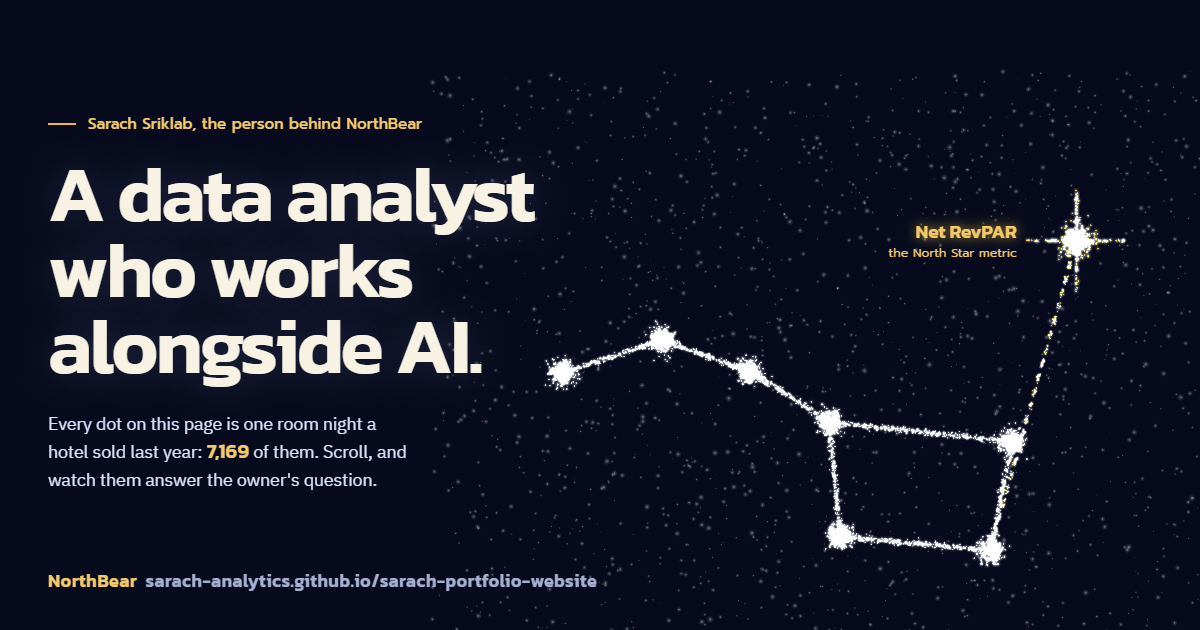
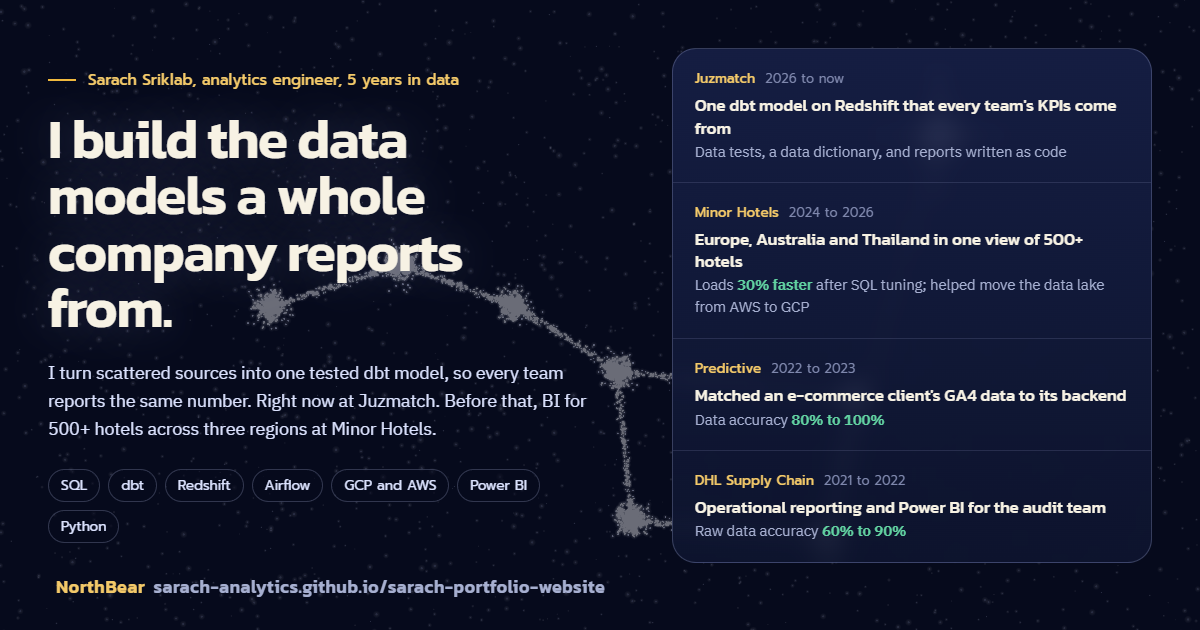
Lead the homepage with the work, for hiring managers
- New hero: an analytics-engineer claim, tools, and the four real jobs
  with their results; the dots dim behind it and brighten for the story
- Drop the separate number strip (the work list now carries it)
- Frame the hotel as a demo of how I work; Me/AI notes now show what I
  decided and caught, not just what AI typed
- Day-job work before Echo; contact splits hiring from projects
- New page title, description and share image

diff --git a/index.html b/index.html
@@ -3,19 +3,19 @@
 <head>
   <meta charset="utf-8">
   <meta name="viewport" content="width=device-width, initial-scale=1">
-  <title>Sarach Sriklab, data analyst who works alongside AI</title>
-  <meta name="title-en" content="Sarach Sriklab, data analyst who works alongside AI">
-  <meta name="title-th" content="สารัช ศรีกลับ Data Analyst ที่ทำงานคู่กับ AI">
-  <meta name="description" content="Watch a data analyst take one hotel owner's question to one decision, with real numbers and AI in the open. Portfolio, courses and consulting by Sarach Sriklab (NorthBear).">
-  <meta property="og:title" content="Sarach Sriklab, data analyst who works alongside AI">
-  <meta property="og:description" content="One question, one decision: a live data story, a Playground of things to try, and the NorthBear courses.">
+  <title>Sarach Sriklab, analytics engineer</title>
+  <meta name="title-en" content="Sarach Sriklab, analytics engineer">
+  <meta name="title-th" content="สารัช ศรีกลับ analytics engineer">
+  <meta name="description" content="Sarach Sriklab, analytics engineer with 5 years in data. I build the dbt models and reporting a whole company works from: Juzmatch, Minor Hotels (500+ hotels), Predictive, DHL Supply Chain.">
+  <meta property="og:title" content="Sarach Sriklab, analytics engineer">
+  <meta property="og:description" content="I build the data models a whole company reports from. 5 years in data: Juzmatch, Minor Hotels, Predictive, DHL Supply Chain.">
   <meta property="og:type" content="website">
   <meta property="og:site_name" content="Sarach Sriklab, NorthBear">
   <meta property="og:url" content="https://sarach-analytics.github.io/sarach-portfolio-website/">
   <meta property="og:image" content="https://sarach-analytics.github.io/sarach-portfolio-website/images/og.png">
   <meta property="og:image:width" content="1200">
   <meta property="og:image:height" content="630">
-  <meta property="og:image:alt" content="The Big Dipper drawn in 7,169 dots, one per hotel room night, pointing to a gold North Star labelled Net RevPAR.">
+  <meta property="og:image:alt" content="Sarach Sriklab, analytics engineer: I build the data models a whole company reports from. Work at Juzmatch, Minor Hotels, Predictive and DHL Supply Chain.">
   <meta name="twitter:card" content="summary_large_image">
   <link rel="canonical" href="https://sarach-analytics.github.io/sarach-portfolio-website/">
   <link rel="apple-touch-icon" href="images/apple-touch-icon.png">
@@ -34,36 +34,26 @@
 
 <main id="main">
 
-  <!-- ===== Hero: the field ===== -->
-  <section class="hero">
+  <!-- ===== Hero: who I am and the work behind it ===== -->
+  <section class="hero hero-hm">
     <div class="hero-stage" id="hero-stage"><div class="stage-labels" id="hero-labels"></div></div>
     <div class="wrap wide hero-grid">
       <div class="hero-copy hero-in">
-        <p class="kicker"><span class="en">Sarach Sriklab, the person behind NorthBear</span><span class="th">สารัช ศรีกลับ คนเบื้องหลัง NorthBear</span></p>
-        <h1><span class="en">A data analyst who works alongside AI.</span><span class="th">Data Analyst ที่ทำงานคู่กับ AI</span></h1>
-        <p class="lead"><span class="en">Every dot on this page is one room night a hotel sold last year: <b class="count" id="nights-count">7,169</b> of them. Scroll, and watch them answer the owner's question.</span><span class="th">ทุกจุดในหน้านี้คือห้องพัก 1 คืนที่โรงแรมขายได้เมื่อปีที่แล้ว รวม <b class="count" data-v="nights">7,169</b> จุด เลื่อนลงไปดูจุดเหล่านี้ตอบคำถามของเจ้าของโรงแรม</span></p>
+        <p class="kicker"><span class="en">Sarach Sriklab, analytics engineer, 5 years in data</span><span class="th">สารัช ศรีกลับ analytics engineer ทำงานด้านข้อมูลมา 5 ปี</span></p>
+        <h1><span class="en">I build the data models a whole company reports from.</span><span class="th">ผมสร้าง data model ที่ทั้งบริษัทใช้ทำรายงาน</span></h1>
+        <p class="lead"><span class="en">I turn scattered sources into one tested dbt model, so every team reports the same number. Right now at Juzmatch. Before that, BI for 500+ hotels across three regions at Minor Hotels.</span><span class="th">ผมรวมข้อมูลที่กระจายอยู่หลายที่ให้เป็น dbt model เดียวที่มีเทสต์ครบ ทุกทีมจึงรายงานตัวเลขเดียวกัน ตอนนี้ทำที่ Juzmatch ก่อนหน้านี้ทำ BI ให้โรงแรม 500+ แห่งใน 3 ภูมิภาคที่ Minor Hotels</span></p>
+        <ul class="stack" aria-label="Tools I use"><li>SQL</li><li>dbt</li><li>Redshift</li><li>Airflow</li><li>GCP and AWS</li><li>Power BI</li><li>Python</li></ul>
         <div class="btn-row">
-          <a class="btn" href="#story"><span class="en">Watch the story</span><span class="th">ดู data story</span><i data-i="arrow-down"></i></a>
-          <a class="btn ghost" href="playground.html"><span class="en">Try the Playground</span><span class="th">ไปลองเล่น</span></a>
+          <a class="btn" href="projects.html"><span class="en">See the work</span><span class="th">ดูผลงาน</span></a>
+          <a class="btn ghost" href="images/sarach-sriklab-resume.pdf"><i data-i="file"></i><span class="en">Download CV</span><span class="th">ดาวน์โหลด CV</span></a>
         </div>
-        <p class="hint"><i data-i="target"></i><span class="en">Point at any dot to see its night. Click the sky to stir it.</span><span class="th">ชี้ที่จุดไหนก็ได้เพื่อดูว่าเป็นคืนไหน คลิกที่ท้องฟ้าเพื่อให้จุดกระจาย</span></p>
       </div>
-    </div>
-  </section>
-
-  <!-- ===== Real results (the hotel is made up; these are not) ===== -->
-  <section class="proof" aria-labelledby="proof-title">
-    <div class="wrap wide">
-      <div class="proof-head">
-        <p id="proof-title"><span class="en">The hotel in the story below is made up. These results are real, from my day jobs.</span><span class="th">โรงแรมใน story ด้านล่างเป็นของสมมติ แต่ผลงานเหล่านี้เป็นของจริงจากงานประจำของผม</span></p>
-        <a class="text-link" href="projects.html"><span class="en">Read the stories</span><span class="th">อ่านเรื่องเต็ม</span></a>
-      </div>
-      <div class="proof-grid">
-        <div><b>500+</b><span><span class="en">hotels in one performance view, across three regions</span><span class="th">โรงแรมในรายงานผลประกอบการชุดเดียว ครอบคลุม 3 ภูมิภาค</span></span><small>Minor Hotels</small></div>
-        <div><b>30%</b><span><span class="en">faster dashboard loads after SQL tuning</span><span class="th">dashboard โหลดเร็วขึ้นหลังปรับ SQL</span></span><small>Minor Hotels</small></div>
-        <div><b>100%</b><span><span class="en">data accuracy for an e-commerce client, up from 80%</span><span class="th">ความถูกต้องของข้อมูลลูกค้า e-commerce จากเดิม 80%</span></span><small>Predictive</small></div>
-        <div><b>90%</b><span><span class="en">raw data accuracy, up from 60%</span><span class="th">ความถูกต้องของข้อมูลดิบ จากเดิม 60%</span></span><small>DHL Supply Chain</small></div>
-      </div>
+      <ol class="ledger hero-in" aria-label="Work history">
+        <li><span class="co">Juzmatch <small><span class="en">2026 to now</span><span class="th">2026 ถึงปัจจุบัน</span></small></span><b><span class="en">One dbt model on Redshift that every team's KPIs come from</span><span class="th">dbt model เดียวบน Redshift ที่ KPI ของทุกทีมมาจากที่นี่</span></b><span class="res"><span class="en">Data tests, a data dictionary, and reports written as code</span><span class="th">มี data test, data dictionary และรายงานที่เขียนเป็นโค้ด</span></span></li>
+        <li><span class="co">Minor Hotels <small>2024 <span class="en">to</span><span class="th">ถึง</span> 2026</small></span><b><span class="en">Europe, Australia and Thailand in one view of 500+ hotels</span><span class="th">ยุโรป ออสเตรเลีย และไทย รวมในรายงานเดียวของโรงแรม 500+ แห่ง</span></b><span class="res"><span class="en">Loads <em>30% faster</em> after SQL tuning; helped move the data lake from AWS to GCP</span><span class="th">โหลดเร็วขึ้น <em>30%</em> หลังปรับ SQL และช่วยย้าย data lake จาก AWS ไป GCP</span></span></li>
+        <li><span class="co">Predictive <small>2022 <span class="en">to</span><span class="th">ถึง</span> 2023</small></span><b><span class="en">Matched an e-commerce client's GA4 data to its backend</span><span class="th">จับคู่ข้อมูล GA4 ของลูกค้า e-commerce กับระบบหลังบ้าน</span></b><span class="res"><span class="en">Data accuracy <em>80% to 100%</em></span><span class="th">ความถูกต้องของข้อมูล <em>80% เป็น 100%</em></span></span></li>
+        <li><span class="co">DHL Supply Chain <small>2021 <span class="en">to</span><span class="th">ถึง</span> 2022</small></span><b><span class="en">Operational reporting and Power BI for the audit team</span><span class="th">ระบบรายงานงานปฏิบัติการ และ Power BI ให้ทีม audit</span></b><span class="res"><span class="en">Raw data accuracy <em>60% to 90%</em></span><span class="th">ความถูกต้องของข้อมูลดิบ <em>60% เป็น 90%</em></span></span></li>
+      </ol>
     </div>
   </section>
 
@@ -71,12 +61,12 @@
   <section id="story" class="story-sec">
     <div class="wrap wide">
       <header class="sec-head">
-        <h2><span class="en">One question, one decision.</span><span class="th">คำถามเดียว การตัดสินใจเดียว</span></h2>
+        <h2><span class="en">How I work, shown on a demo hotel.</span><span class="th">วิธีทำงานของผม ผ่านโรงแรมตัวอย่าง</span></h2>
         <div>
-          <p class="lead"><span class="en">Phra Nang House is a 30-room hotel in Krabi. The hotel and its data are made up, but built to behave like a real one: high season, weekends, five booking channels. It is the dataset students use in the NorthBear courses.</span><span class="th">Phra Nang House เป็นโรงแรม 30 ห้องที่กระบี่ ตัวโรงแรมและข้อมูลเป็นของสมมติ แต่สร้างให้เหมือนโรงแรมจริง มีไฮซีซั่น วันหยุด และช่องทางจอง 5 ช่องทาง เป็นชุดข้อมูลเดียวกับที่นักเรียนใช้ในคอร์สของ NorthBear</span></p>
+          <p class="lead"><span class="en">One owner's question, taken all the way to one decision. Phra Nang House is a 30-room hotel in Krabi. The hotel and its data are made up, but built to behave like a real one: high season, weekends, five booking channels. It is the dataset my NorthBear courses use.</span><span class="th">พาคำถามเดียวของเจ้าของโรงแรมไปจนถึงการตัดสินใจเดียว Phra Nang House เป็นโรงแรม 30 ห้องที่กระบี่ ตัวโรงแรมและข้อมูลเป็นของสมมติ แต่สร้างให้เหมือนโรงแรมจริง มีไฮซีซั่น วันหยุด และช่องทางจอง 5 ช่องทาง เป็นชุดข้อมูลเดียวกับที่นักเรียนใช้ในคอร์สของ NorthBear</span></p>
           <div class="hero-meta">
-            <span class="who me"><span class="en">what I did</span><span class="th">ส่วนที่ผมทำ</span></span>
-            <span class="who ai"><span class="en">what AI did</span><span class="th">ส่วนที่ AI ทำ</span></span>
+            <span class="who me"><span class="en">my call</span><span class="th">ส่วนที่ผมตัดสิน</span></span>
+            <span class="who ai"><span class="en">what AI drafted</span><span class="th">ส่วนที่ AI ร่าง</span></span>
           </div>
         </div>
       </header>
@@ -92,7 +82,7 @@
               <p><span class="en">My first job is to turn that into something we can measure. Here is the raw material: every room night sold in the last 12 months.</span><span class="th">งานแรกของผมคือเปลี่ยนคำถามนี้ให้เป็นสิ่งที่วัดได้ และนี่คือวัตถุดิบ: ห้องพักทุกคืนที่ขายได้ใน 12 เดือนล่าสุด</span></p>
               <div class="split">
                 <div><span class="who me"><span class="en">Me</span><span class="th">ผม</span></span><span class="en">Picked the metric: room revenue after booking commission. Revenue alone hides what it cost to win the guest.</span><span class="th">เลือก metric คือรายได้ห้องหลังหักค่าคอมมิชชัน เพราะรายได้อย่างเดียวซ่อนต้นทุนการได้ลูกค้ามา</span></div>
-                <div class="ai-side"><span class="who ai">AI</span><span class="en">Listed eight candidate metrics in seconds, so I could cross off the wrong ones.</span><span class="th">ลิสต์ metric ที่เป็นไปได้ 8 ตัวในไม่กี่วินาที ให้ผมตัดตัวที่ไม่ใช่ออก</span></div>
+                <div class="ai-side"><span class="who ai">AI</span><span class="en">Listed eight candidate metrics. Most measured volume, not what is left over, so I cut them.</span><span class="th">ลิสต์ metric มา 8 ตัว ส่วนใหญ่วัดปริมาณ ไม่ได้วัดเงินที่เหลือ ผมเลยตัดออก</span></div>
               </div>
             </div>
           </article>
@@ -108,8 +98,8 @@
                 <li><i data-i="check"></i><span class="en">No night is counted twice</span><span class="th">ไม่มีคืนไหนถูกนับซ้ำ</span></li>
               </ul>
               <div class="split">
-                <div><span class="who me"><span class="en">Me</span><span class="th">ผม</span></span><span class="en">Wrote the rules for "clean", then checked every total against the nightly report.</span><span class="th">กำหนดว่า "สะอาด" คืออะไร แล้วเช็กยอดรวมทุกตัวกับรายงานรายคืน</span></div>
-                <div class="ai-side"><span class="who ai">AI</span><span class="en">Drafted the SQL to fix dates, types and names, and flagged the duplicate night.</span><span class="th">ร่าง SQL แก้วันที่ ชนิดข้อมูล และชื่อ แล้วชี้แถวที่ซ้ำ</span></div>
+                <div><span class="who me"><span class="en">Me</span><span class="th">ผม</span></span><span class="en">Wrote the rules for "clean" as tests, then checked every total against the nightly report.</span><span class="th">เขียนกฎว่า "สะอาด" คืออะไรเป็นเทสต์ แล้วเช็กยอดรวมทุกตัวกับรายงานรายคืน</span></div>
+                <div class="ai-side"><span class="who ai">AI</span><span class="en">Drafted the clean-up SQL. It removed duplicates by booking ID and missed a night split across two IDs. My test caught it.</span><span class="th">ร่าง SQL ล้างข้อมูล แต่ตัดแถวซ้ำด้วย booking ID เลยพลาดคืนที่ถูกแยกเป็น 2 ID เทสต์ของผมจับได้</span></div>
               </div>
             </div>
           </article>
@@ -121,8 +111,8 @@
               <p><span class="en">I model the nights as one table of facts, with date, channel, guest market and room type around it. Slicing by channel takes one line, and it is where this story turns.</span><span class="th">ผมออกแบบข้อมูลรายคืนเป็น fact table เดียว มีวันที่ ช่องทาง ตลาดลูกค้า และประเภทห้องอยู่รอบ ๆ หั่นตามช่องทางใช้แค่บรรทัดเดียว และเรื่องนี้เริ่มพลิกตรงนี้</span></p>
               <div class="schema"><span class="fact">fct_nightly</span><span>dim_date</span><span>dim_channel</span><span>dim_market</span><span>dim_room_type</span></div>
               <div class="split">
-                <div><span class="who me"><span class="en">Me</span><span class="th">ผม</span></span><span class="en">Chose the grain (one row per night per channel) and how the tables join.</span><span class="th">เลือกระดับข้อมูล (1 แถวต่อคืนต่อช่องทาง) และวิธี join</span></div>
-                <div class="ai-side"><span class="who ai">AI</span><span class="en">Wrote the dbt model and tests from my spec. I reviewed every line.</span><span class="th">เขียน dbt model และเทสต์จากสเปกของผม ผมรีวิวทุกบรรทัด</span></div>
+                <div><span class="who me"><span class="en">Me</span><span class="th">ผม</span></span><span class="en">Chose the grain (one row per night per channel) and how the tables join. That choice is why the channel question takes one line.</span><span class="th">เลือกระดับข้อมูล (1 แถวต่อคืนต่อช่องทาง) และวิธี join การเลือกนี้ทำให้คำถามเรื่องช่องทางใช้แค่บรรทัดเดียว</span></div>
+                <div class="ai-side"><span class="who ai">AI</span><span class="en">Typed the dbt model and tests from my spec. In review I rejected a join that would have counted revenue twice.</span><span class="th">เขียน dbt model และเทสต์ตามสเปกของผม ตอนรีวิวผมตีกลับ join ที่จะทำให้รายได้ถูกนับซ้ำ</span></div>
               </div>
             </div>
           </article>
@@ -137,7 +127,7 @@
               <div class="table-wrap" id="trend-table"></div>
               <div class="split">
                 <div><span class="who me"><span class="en">Me</span><span class="th">ผม</span></span><span class="en">Decided what to compare (same months last year) and what to leave out.</span><span class="th">ตัดสินใจว่าจะเทียบอะไร (เดือนเดียวกันปีก่อน) และอะไรไม่ต้องใส่</span></div>
-                <div class="ai-side"><span class="who ai">AI</span><span class="en">Drafted the chart and a first summary. I rewrote the headline.</span><span class="th">ร่างกราฟและสรุปรอบแรก ผมเขียนหัวข้อใหม่</span></div>
+                <div class="ai-side"><span class="who ai">AI</span><span class="en">Drafted the chart and a summary that called the year a success. I rewrote it: true, but not the whole story.</span><span class="th">ร่างกราฟและสรุปที่บอกว่าปีนี้สำเร็จ ผมเขียนใหม่ เพราะจริงแต่ยังไม่ครบ</span></div>
               </div>
             </div>
           </article>
@@ -223,24 +213,9 @@ order by commission desc;</code></pre>
     <div class="wrap">
       <div class="section-head">
         <h2><span class="en">Selected work</span><span class="th">ผลงานที่เลือกมา</span></h2>
-        <p class="lead"><span class="en">Day-job work is told as a story with no company data. Personal and NorthBear work you can open and try.</span><span class="th">งานประจำเล่าเป็นเรื่องโดยไม่มีข้อมูลบริษัท ส่วนงานส่วนตัวและงานของ NorthBear เปิดดูและลองใช้ได้</span></p>
+        <p class="lead"><span class="en">Day-job work first, told with no company data. Then Echo, which I built for my own brand and you can try.</span><span class="th">งานประจำมาก่อน เล่าโดยไม่มีข้อมูลบริษัท ตามด้วย Echo ที่ผมสร้างให้แบรนด์ตัวเองและลองใช้ได้เลย</span></p>
       </div>
       <div class="rows">
-        <div class="row flag">
-          <div class="row-kind"><b><span class="en">NorthBear work</span><span class="th">งาน NorthBear</span></b><span class="en">Flagship</span><span class="th">ผลงานหลัก</span></div>
-          <div>
-            <h3><span class="en">Echo, an AI data agent for your spreadsheet</span><span class="th">Echo ผู้ช่วย AI สำหรับ spreadsheet ของคุณ</span></h3>
-            <p><span class="en">A morning recap with a written brief, plus a chat that answers the next five questions and shows the SQL and source rows behind every answer.</span><span class="th">สรุปผลเป็นข้อความทุกเช้า และแชตที่ตอบคำถามต่อได้อีก 5 ข้อ โดยแสดง SQL และแถวข้อมูลต้นทางของทุกคำตอบ</span></p>
-            <div class="split">
-              <div><span class="who me"><span class="en">Me</span><span class="th">ผม</span></span><span class="en">The metrics, the questions, the recap design, and the rule: cite the source or say "I don't know".</span><span class="th">metric คำถาม การออกแบบสรุป และกฎ "อ้างแหล่งที่มา หรือบอกว่าไม่รู้"</span></div>
-              <div class="ai-side"><span class="who ai">AI</span><span class="en">Reads the sheet, explains what moved, writes the brief, answers follow-ups.</span><span class="th">อ่านชีต อธิบายว่าอะไรขยับ เขียนสรุป และตอบคำถามต่อ</span></div>
-            </div>
-          </div>
-          <div class="row-links">
-            <a class="btn small" href="playground.html#echo"><span class="en">Ask Echo</span><span class="th">ลองถาม Echo</span></a>
-            <a class="text-link" href="courses.html#blueprint"><span class="en">Build your own</span><span class="th">สร้างของคุณเอง</span></a>
-          </div>
-        </div>
         <div class="row">
           <div class="row-kind"><b><span class="en">Day-job work</span><span class="th">งานประจำ</span></b>Juzmatch, 2026</div>
           <div>
@@ -256,6 +231,21 @@ order by commission desc;</code></pre>
             <p><span class="en">Europe, Australia and Thailand in one performance view, with a watchlist for hotels that need attention and 30% faster loads.</span><span class="th">รวมยุโรป ออสเตรเลีย และไทยไว้ในมุมมองเดียว มี watchlist สำหรับโรงแรมที่ต้องดูแล และโหลดเร็วขึ้น 30%</span></p>
           </div>
           <div class="row-links"><a class="text-link" href="projects.html"><span class="en">Read the story</span><span class="th">อ่านเรื่องนี้</span></a></div>
+        </div>
+        <div class="row flag">
+          <div class="row-kind"><b><span class="en">NorthBear work</span><span class="th">งาน NorthBear</span></b><span class="en">Flagship</span><span class="th">ผลงานหลัก</span></div>
+          <div>
+            <h3><span class="en">Echo, an AI data agent for your spreadsheet</span><span class="th">Echo ผู้ช่วย AI สำหรับ spreadsheet ของคุณ</span></h3>
+            <p><span class="en">A morning recap with a written brief, plus a chat that answers the next five questions and shows the SQL and source rows behind every answer.</span><span class="th">สรุปผลเป็นข้อความทุกเช้า และแชตที่ตอบคำถามต่อได้อีก 5 ข้อ โดยแสดง SQL และแถวข้อมูลต้นทางของทุกคำตอบ</span></p>
+            <div class="split">
+              <div><span class="who me"><span class="en">Me</span><span class="th">ผม</span></span><span class="en">The metrics, the questions, the recap design, and the rule: cite the source or say "I don't know".</span><span class="th">metric คำถาม การออกแบบสรุป และกฎ "อ้างแหล่งที่มา หรือบอกว่าไม่รู้"</span></div>
+              <div class="ai-side"><span class="who ai">AI</span><span class="en">Reads the sheet, explains what moved, writes the brief, answers follow-ups.</span><span class="th">อ่านชีต อธิบายว่าอะไรขยับ เขียนสรุป และตอบคำถามต่อ</span></div>
+            </div>
+          </div>
+          <div class="row-links">
+            <a class="btn small" href="playground.html#echo"><span class="en">Ask Echo</span><span class="th">ลองถาม Echo</span></a>
+            <a class="text-link" href="courses.html#blueprint"><span class="en">Build your own</span><span class="th">สร้างของคุณเอง</span></a>
+          </div>
         </div>
       </div>
       <div class="btn-row"><a class="btn ghost" href="projects.html"><span class="en">See all work</span><span class="th">ดูผลงานทั้งหมด</span></a></div>
@@ -323,8 +313,12 @@ order by commission desc;</code></pre>
     <div class="wrap">
       <div class="panel two">
         <div>
-          <h2><span class="en">Tell me what question your data should answer.</span><span class="th">บอกผมว่าข้อมูลของคุณควรตอบคำถามอะไร</span></h2>
-          <p class="lead" style="margin-top:14px"><span class="en">Dashboards, a data health check, an AI agent like Echo, or a workshop for your team. I reply within two working days.</span><span class="th">จะเป็น dashboard, ตรวจสุขภาพข้อมูล, AI agent แบบ Echo หรือเวิร์กช็อปให้ทีมก็ได้ ผมตอบกลับภายใน 2 วันทำการ</span></p>
+          <h2><span class="en">Hiring, or have a project?</span><span class="th">กำลังหาคน <span style="white-space:nowrap">หรือมีโปรเจกต์?</span></span></h2>
+          <div class="two-ways">
+            <div><h3 class="h4"><span class="en">Hiring for analytics engineering</span><span class="th">หาคนทำ analytics engineering</span></h3><p><span class="en">My CV has the full history. Message me on LinkedIn or by email.</span><span class="th">ประวัติเต็มอยู่ใน CV ทักมาทาง LinkedIn หรืออีเมลได้เลย</span></p></div>
+            <div><h3 class="h4"><span class="en">A project for your business</span><span class="th">โปรเจกต์ให้ธุรกิจของคุณ</span></h3><p><span class="en">A dashboard, a data health check, an AI agent like Echo, or a workshop. Use the form.</span><span class="th">dashboard, ตรวจสุขภาพข้อมูล, AI agent แบบ Echo หรือเวิร์กช็อป กรอกฟอร์มได้เลย</span></p></div>
+          </div>
+          <p class="small muted" style="margin-top:18px"><span class="en">I reply within two working days.</span><span class="th">ผมตอบกลับภายใน 2 วันทำการ</span></p>
           <div class="contact-lines">
             <a href="mailto:sarach.northbear+consulting@gmail.com"><i data-i="mail"></i>sarach.northbear+consulting@gmail.com</a>
             <a href="https://www.linkedin.com/in/sarach-sriklab-b1669715a/" target="_blank" rel="noopener"><i data-i="linkedin"></i>LinkedIn</a>
@@ -340,6 +334,7 @@ order by commission desc;</code></pre>
             <div class="field"><label for="c-type"><span class="en">What you need</span><span class="th">ต้องการอะไร</span></label>
               <select id="c-type" name="ProjectType" required>
                 <option value="" data-en="Choose one" data-th="เลือก 1 อย่าง">Choose one</option>
+                <option value="Job opportunity" data-en="A job opportunity" data-th="ชวนร่วมงาน">A job opportunity</option>
                 <option value="Done-for-you Echo" data-en="AI data agent (like Echo)" data-th="AI data agent (แบบ Echo)">AI data agent (like Echo)</option>
                 <option value="Dashboard Development" data-en="A dashboard" data-th="Dashboard">A dashboard</option>
                 <option value="Data health check" data-en="A data health check" data-th="ตรวจสุขภาพข้อมูล">A data health check</option>
@@ -354,7 +349,7 @@ order by commission desc;</code></pre>
                 <option value="Exploring" data-en="Just exploring" data-th="แค่ดูไว้ก่อน">Just exploring</option>
               </select></div>
           </div>
-          <div class="field"><label for="c-msg"><span class="en">The question your data should answer</span><span class="th">คำถามที่ข้อมูลของคุณควรตอบ</span></label><textarea id="c-msg" name="Message" rows="5" required maxlength="1000" data-ph-en="For example: which of our branches is losing money, and why?" data-ph-th="เช่น สาขาไหนขาดทุน และเพราะอะไร"></textarea></div>
+          <div class="field"><label for="c-msg"><span class="en">The role, or the question your data should answer</span><span class="th">ตำแหน่งงาน หรือคำถามที่ข้อมูลของคุณควรตอบ</span></label><textarea id="c-msg" name="Message" rows="5" required maxlength="1000" data-ph-en="For example: which of our branches is losing money, and why?" data-ph-th="เช่น สาขาไหนขาดทุน และเพราะอะไร"></textarea></div>
           <div><button class="btn" type="submit"><span class="en">Send message</span><span class="th">ส่งข้อความ</span><i data-i="send"></i></button></div>
           <p class="form-msg" aria-live="polite"></p>
         </form>

diff --git a/assets/nb/nb.css b/assets/nb/nb.css
@@ -737,3 +737,34 @@ html.th .whole-job h2 { max-width: 20ch; }
 
 /* headings re-levelled for screen readers keep the look of their old level */
 .article h2.h4 { font-size: 1.0625rem; line-height: 1.35; letter-spacing: 0; margin: 0 0 8px; }
+
+/* ===== Home hero for hiring managers: claim on the left, the work behind it on the right ===== */
+.hero-hm { min-height: 0; padding: clamp(40px, 7vh, 88px) 0 clamp(56px, 9vh, 104px); }
+.hero-hm .hero-stage { width: 100%; }
+.hero-hm #hero-labels { display: none; }
+.hero-hm .hero-grid { display: grid; grid-template-columns: minmax(0, 1.08fr) minmax(0, .92fr); gap: clamp(32px, 5vw, 72px); align-items: center; }
+.hero-hm .hero-copy { max-width: 640px; }
+.hero-hm h1 { max-width: 15ch; font-size: clamp(2.6rem, 4.6vw, 4.4rem); line-height: 1.02; letter-spacing: -.025em; }
+html.th .hero-hm h1 { max-width: 14ch; font-size: clamp(2.4rem, 4.2vw, 4rem); line-height: 1.2; }
+.hero-hm .lead { max-width: 52ch; margin-top: 24px; }
+.stack { list-style: none; display: flex; flex-wrap: wrap; gap: 8px; margin-top: 24px; }
+.stack li { font-family: var(--f-ui); font-size: .85rem; color: var(--navy); border: 1px solid var(--rule-strong); border-radius: 999px; padding: 4px 12px; background: rgba(6, 10, 28, .6); }
+.hero-hm .btn-row { margin-top: 28px; }
+.ledger { list-style: none; pointer-events: auto; border: 1px solid var(--rule-strong); border-radius: var(--r-lg); background: linear-gradient(180deg, rgba(24, 33, 74, .82), rgba(14, 21, 48, .86)); backdrop-filter: blur(10px); -webkit-backdrop-filter: blur(10px); }
+.ledger li { display: grid; gap: 4px; padding: 18px 22px; }
+.ledger li + li { border-top: 1px solid var(--rule); }
+.ledger .co { font-family: var(--f-ui); font-size: .85rem; font-weight: 500; color: var(--gold-ink); display: flex; gap: 10px; align-items: baseline; flex-wrap: wrap; }
+.ledger .co small { color: var(--faint); font-weight: 400; font-size: .8rem; }
+.ledger b { font-family: var(--f-head); font-weight: 500; color: var(--navy-deep); font-size: 1.06rem; line-height: 1.32; }
+.ledger .res { color: var(--muted); font-size: .92rem; line-height: 1.45; }
+.ledger em { font-style: normal; color: var(--good); font-weight: 600; }
+@media (max-width: 940px) {
+  .hero-hm { padding: 28px 0 48px; }
+  .hero-hm .hero-grid { grid-template-columns: 1fr; gap: 32px; }
+  .hero-hm .hero-stage { order: 2; height: 34vh; min-height: 220px; margin-top: 8px; }
+  .ledger li { padding: 16px 18px; }
+}
+.two-ways { display: grid; gap: 18px; margin-top: 22px; }
+.two-ways > div { border-left: 2px solid var(--gold); padding-left: 16px; }
+.two-ways h3 { color: var(--navy-deep); margin-bottom: 4px; }
+.two-ways p { color: var(--muted); }

diff --git a/assets/nb/story.js b/assets/nb/story.js
@@ -308,6 +308,7 @@
   var heroStage = document.getElementById('hero-stage'), storyStage = document.getElementById('story-stage');
   var labelLayer = document.getElementById('stage-labels'), heroLabels = document.getElementById('hero-labels');
   var steps = [].slice.call(document.querySelectorAll('.step'));
+  var heroBehind = !!document.querySelector('.hero-hm');
   if (!ctx || !heroStage || !storyStage) return;
   var dpr = 1, VW = 0, VH = 0, HW = 0, HH = 0, SW = 0, SH = 0;
   // drawing detail: 2 = full, 1 = no retina canvas, 0 = also plain batched dots, no glow or twinkle.
@@ -419,6 +420,7 @@
     canvas.style.opacity = op;
     if (op <= 0.001) { renderLabels(Math.round(state), 0); return; }
     state = readScroll();
+    if (heroBehind) canvas.style.opacity = op * Math.min(1, .4 + .6 * Math.min(1, state));   // the sky sits behind the hero text, then brightens for the story
     var a = Math.floor(state), b = Math.min(NSTATE - 1, a + 1), f = state - a;
     var oA = originOf(a), oB = originOf(b);
     var near = Math.round(state), closeness = 1 - Math.min(1, Math.abs(state - near) * 2.2);

diff --git a/blog-stock-data-pipeline.html b/blog-stock-data-pipeline.html
@@ -15,7 +15,7 @@
   <meta property="og:image" content="https://sarach-analytics.github.io/sarach-portfolio-website/images/og.png">
   <meta property="og:image:width" content="1200">
   <meta property="og:image:height" content="630">
-  <meta property="og:image:alt" content="The Big Dipper drawn in 7,169 dots, one per hotel room night, pointing to a gold North Star labelled Net RevPAR.">
+  <meta property="og:image:alt" content="Sarach Sriklab, analytics engineer: I build the data models a whole company reports from. Work at Juzmatch, Minor Hotels, Predictive and DHL Supply Chain.">
   <meta name="twitter:card" content="summary_large_image">
   <link rel="canonical" href="https://sarach-analytics.github.io/sarach-portfolio-website/blog-stock-data-pipeline.html">
   <link rel="apple-touch-icon" href="images/apple-touch-icon.png">

diff --git a/playground.html b/playground.html
@@ -15,7 +15,7 @@
   <meta property="og:image" content="https://sarach-analytics.github.io/sarach-portfolio-website/images/og.png">
   <meta property="og:image:width" content="1200">
   <meta property="og:image:height" content="630">
-  <meta property="og:image:alt" content="The Big Dipper drawn in 7,169 dots, one per hotel room night, pointing to a gold North Star labelled Net RevPAR.">
+  <meta property="og:image:alt" content="Sarach Sriklab, analytics engineer: I build the data models a whole company reports from. Work at Juzmatch, Minor Hotels, Predictive and DHL Supply Chain.">
   <meta name="twitter:card" content="summary_large_image">
   <link rel="canonical" href="https://sarach-analytics.github.io/sarach-portfolio-website/playground.html">
   <link rel="apple-touch-icon" href="images/apple-touch-icon.png">

diff --git a/projects.html b/projects.html
@@ -15,7 +15,7 @@
   <meta property="og:image" content="https://sarach-analytics.github.io/sarach-portfolio-website/images/og.png">
   <meta property="og:image:width" content="1200">
   <meta property="og:image:height" content="630">
-  <meta property="og:image:alt" content="The Big Dipper drawn in 7,169 dots, one per hotel room night, pointing to a gold North Star labelled Net RevPAR.">
+  <meta property="og:image:alt" content="Sarach Sriklab, analytics engineer: I build the data models a whole company reports from. Work at Juzmatch, Minor Hotels, Predictive and DHL Supply Chain.">
   <meta name="twitter:card" content="summary_large_image">
   <link rel="canonical" href="https://sarach-analytics.github.io/sarach-portfolio-website/projects.html">
   <link rel="apple-touch-icon" href="images/apple-touch-icon.png">

diff --git a/services.html b/services.html
@@ -15,7 +15,7 @@
   <meta property="og:image" content="https://sarach-analytics.github.io/sarach-portfolio-website/images/og.png">
   <meta property="og:image:width" content="1200">
   <meta property="og:image:height" content="630">
-  <meta property="og:image:alt" content="The Big Dipper drawn in 7,169 dots, one per hotel room night, pointing to a gold North Star labelled Net RevPAR.">
+  <meta property="og:image:alt" content="Sarach Sriklab, analytics engineer: I build the data models a whole company reports from. Work at Juzmatch, Minor Hotels, Predictive and DHL Supply Chain.">
   <meta name="twitter:card" content="summary_large_image">
   <link rel="canonical" href="https://sarach-analytics.github.io/sarach-portfolio-website/services.html">
   <link rel="apple-touch-icon" href="images/apple-touch-icon.png">

diff --git a/courses.html b/courses.html
@@ -15,7 +15,7 @@
   <meta property="og:image" content="https://sarach-analytics.github.io/sarach-portfolio-website/images/og.png">
   <meta property="og:image:width" content="1200">
   <meta property="og:image:height" content="630">
-  <meta property="og:image:alt" content="The Big Dipper drawn in 7,169 dots, one per hotel room night, pointing to a gold North Star labelled Net RevPAR.">
+  <meta property="og:image:alt" content="Sarach Sriklab, analytics engineer: I build the data models a whole company reports from. Work at Juzmatch, Minor Hotels, Predictive and DHL Supply Chain.">
   <meta name="twitter:card" content="summary_large_image">
   <link rel="canonical" href="https://sarach-analytics.github.io/sarach-portfolio-website/courses.html">
   <link rel="apple-touch-icon" href="images/apple-touch-icon.png">

diff --git a/about.html b/about.html
@@ -15,7 +15,7 @@
   <meta property="og:image" content="https://sarach-analytics.github.io/sarach-portfolio-website/images/og.png">
   <meta property="og:image:width" content="1200">
   <meta property="og:image:height" content="630">
-  <meta property="og:image:alt" content="The Big Dipper drawn in 7,169 dots, one per hotel room night, pointing to a gold North Star labelled Net RevPAR.">
+  <meta property="og:image:alt" content="Sarach Sriklab, analytics engineer: I build the data models a whole company reports from. Work at Juzmatch, Minor Hotels, Predictive and DHL Supply Chain.">
   <meta name="twitter:card" content="summary_large_image">
   <link rel="canonical" href="https://sarach-analytics.github.io/sarach-portfolio-website/about.html">
   <link rel="apple-touch-icon" href="images/apple-touch-icon.png">

diff --git a/blog.html b/blog.html
@@ -15,7 +15,7 @@
   <meta property="og:image" content="https://sarach-analytics.github.io/sarach-portfolio-website/images/og.png">
   <meta property="og:image:width" content="1200">
   <meta property="og:image:height" content="630">
-  <meta property="og:image:alt" content="The Big Dipper drawn in 7,169 dots, one per hotel room night, pointing to a gold North Star labelled Net RevPAR.">
+  <meta property="og:image:alt" content="Sarach Sriklab, analytics engineer: I build the data models a whole company reports from. Work at Juzmatch, Minor Hotels, Predictive and DHL Supply Chain.">
   <meta name="twitter:card" content="summary_large_image">
   <link rel="canonical" href="https://sarach-analytics.github.io/sarach-portfolio-website/blog.html">
   <link rel="apple-touch-icon" href="images/apple-touch-icon.png">
